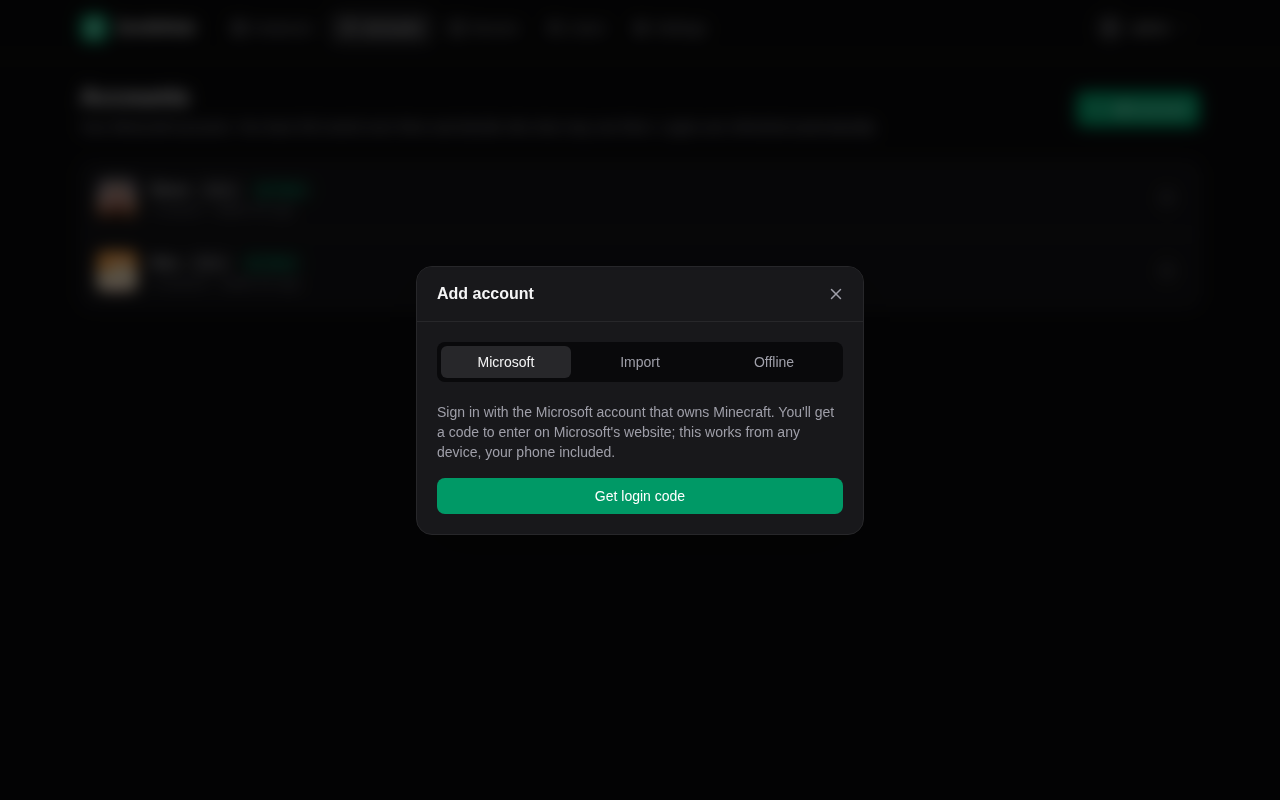
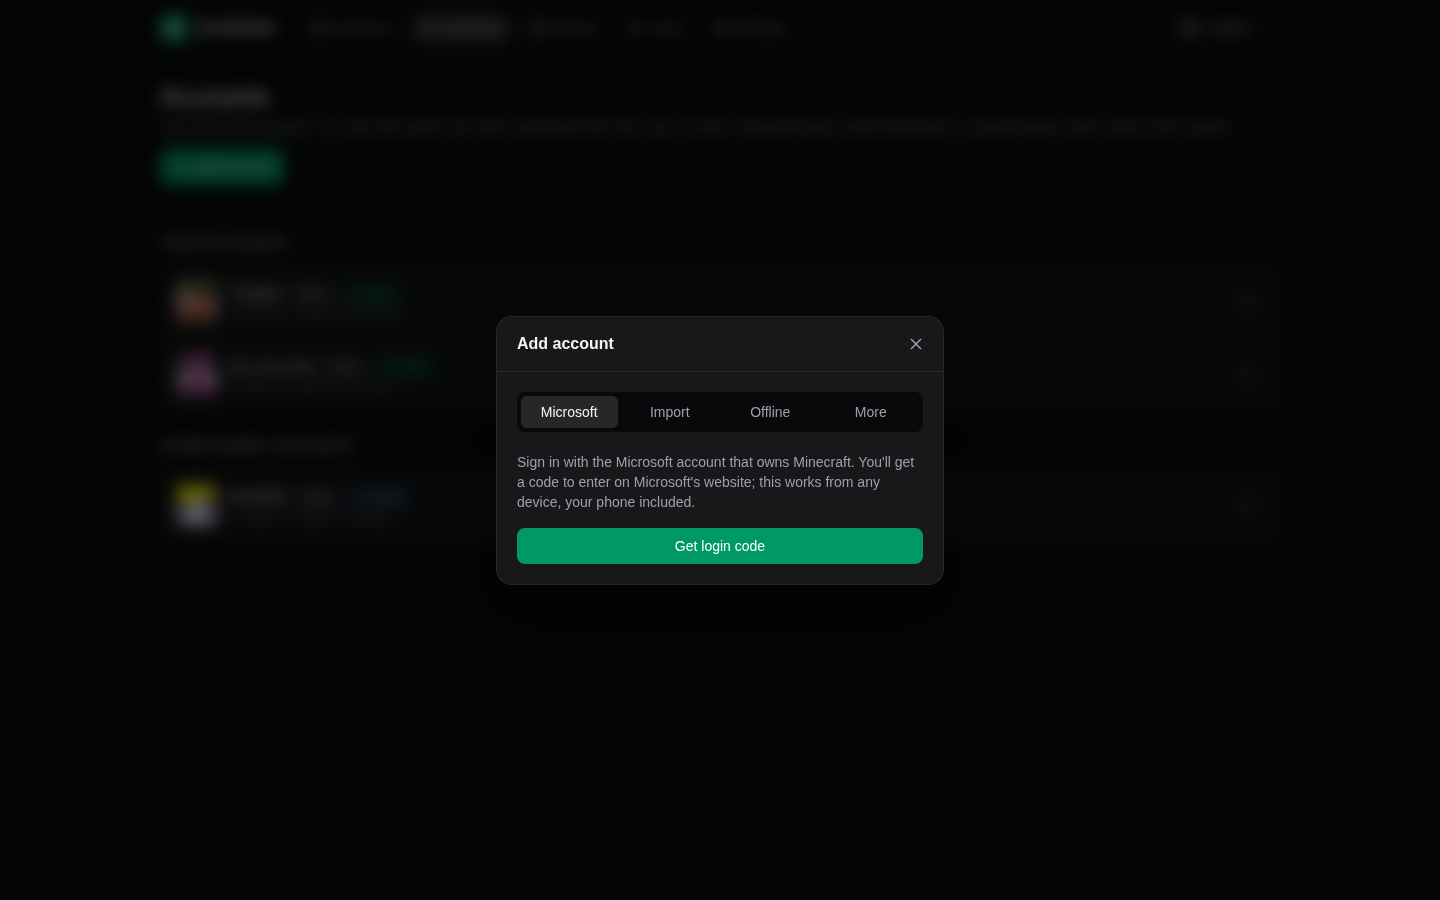
Update the README and screenshots to the current state
Covers the Control, Pearls and Tasks tabs, the extra login methods,
native 26.3 with ViaVersion, the vanilla-client privacy features and the
cheat lock. Screenshots are retaken from the current UI.

diff --git a/README.md b/README.md
@@ -15,22 +15,39 @@ settings all happen in the browser.
 
 ## What ZenithHub adds
 
-- **Web UI** to add accounts (Microsoft device-code login with one click, auth-cache import, or
-  offline), add servers, and connect, disconnect or watch every bot. Works on phones.
+- **Web UI** to add accounts, add servers, and connect, disconnect or watch every bot. Works on phones.
+- **Accounts without a terminal:** Microsoft device-code login with one click, auth-cache import or
+  offline. Under **More**: a login.live.com cookie export, a Microsoft refresh token or a Minecraft
+  access token. Tokens are refreshed in the background.
 - **Instances:** each instance is an account on a server. One account can be on several servers at once.
-- **Clean settings:** curated pages instead of commands, layered Global → Server → Instance, with
-  search, a "changed" filter and reset to inherited. Settings apply live.
+- **Control without commands:** a Control tab for movement (go to, follow, mine, fly and more),
+  waypoints, clicking and looking, the inventory and open containers, connected players (kick, make
+  player, make spectator, connection history), nearby players, requeue, transfers and replay
+  recording. A Pearls tab loads stasis pearls, and a Tasks tab runs any action later, on a schedule
+  or on an event.
+- **Clean settings:** curated pages instead of commands for every Zenith setting, layered
+  Global → Server → Instance, with search, a "changed" filter, reset to inherited and an
+  "advanced" toggle for the rarely used ones. Settings apply live.
 - **One Minecraft port with a lobby:** players join a single address and get a chest menu of the bots
   they may use. Click to play, right-click to spectate, `/lobby` to go back. Clients from 1.20.5 to
   the newest version ViaVersion supports can join.
+- **Any server version:** Zenith runs natively on Minecraft 26.3 and uses ViaVersion to join each
+  server at the newest version it supports, so menus and dialogs reach new clients untranslated.
+- **Looks like a vanilla client:** fresh-install client settings, vanilla chat signing and
+  acknowledgements, real resource-pack downloads, cookies and transfers. Extra privacy switches
+  (block cookies, refuse local resource packs, answer translation-key probes like vanilla and more)
+  are under Settings → Privacy.
 - **Users and sharing:** one admin, users with their own accounts and private servers, and sharing
   by Minecraft name or Discord user with role presets. One permission system covers the web, the
   lobby and Discord.
 - **Optional central Discord bot:** a single bot token for everything. It creates a category per
   account and a channel per instance, posts Zenith's notification embeds and pings the owner. It
-  has `/status`, `/connect` and `/command`, and every notification can be switched off. There is no
-  chat relay.
-- **Outbound proxy** (SOCKS/HTTP) for all traffic: the server connection, Microsoft and Xbox sign-in, skins and every other request. One global proxy, optionally with per-user proxies.
+  has `/status`, `/connect`, `/disconnect`, `/pearl` and `/command`, and every notification can be
+  switched off. There is no chat relay.
+- **Outbound proxy** (SOCKS/HTTP) for all traffic: the server connection, Microsoft and Xbox sign-in,
+  skins and every other request. One global proxy, optionally with per-user proxies.
+- **Optional cheat lock:** `ZENITH_DISABLE_CHEATS=true` removes combat and automation modules for
+  servers that don't allow them.
 - Instances return to their previous state after a restart and are restarted with backoff if they crash.
 
 Deleted compared to upstream: Zenith's own per-instance Discord bot and its Discord commands, the
@@ -83,6 +100,10 @@ own reverse proxy.
 Each instance shows its status, chat and how to join:
 
 ![Instance overview](docs/images/instance.png)
+
+The Control tab replaces Zenith's commands: movement, players, inventory and more, each one tap away:
+
+![Control tab](docs/images/control.png)
 
 Settings are curated pages with search, instead of commands:
 
